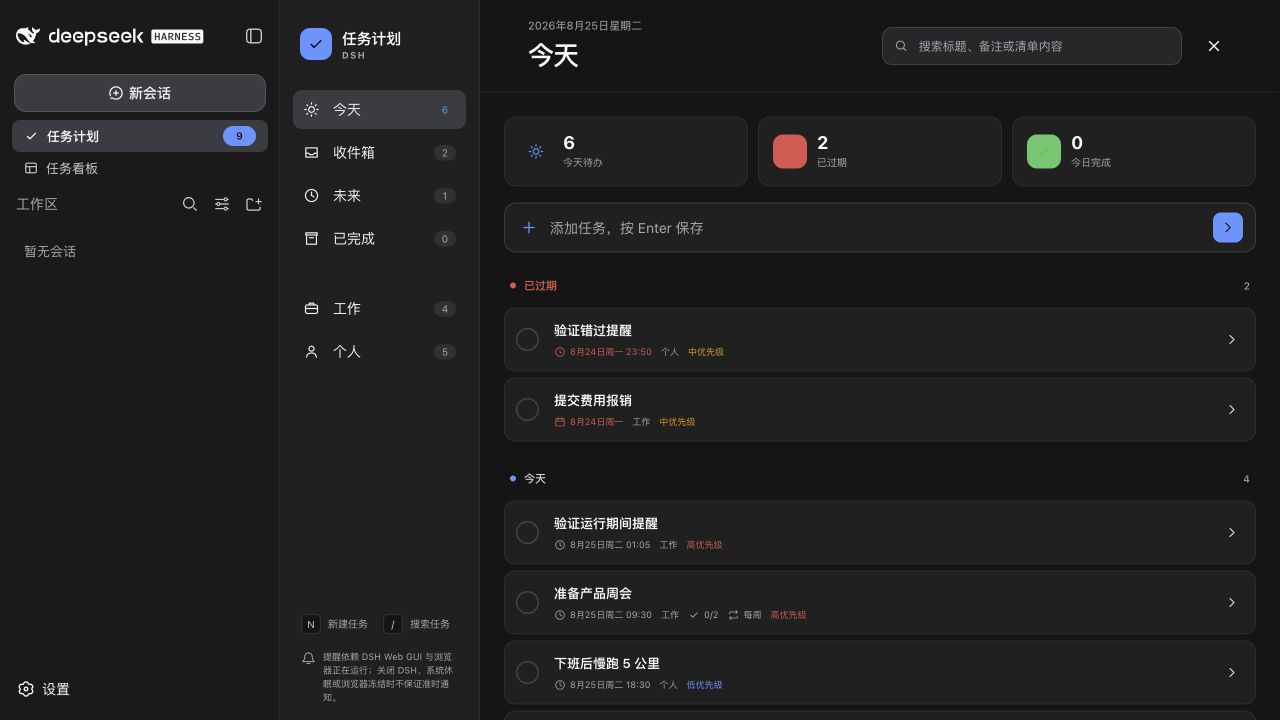
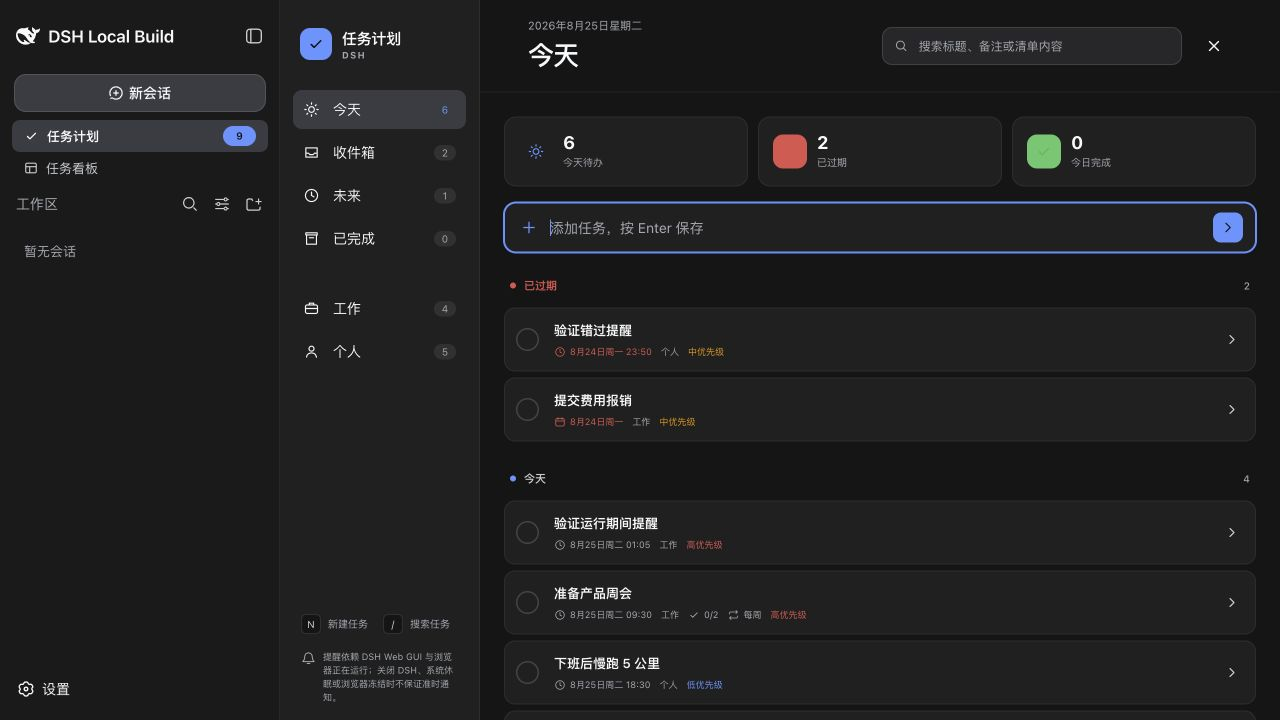
fix: refine composite input focus styles

Changed region(s): [[0.375, 0.275, 1.0, 0.3361], [0.4062, 0.3361, 0.9688, 0.3667], [0.0312, 0.0306, 0.1562, 0.0611]]

diff --git a/src/client/planner.module.css b/src/client/planner.module.css
@@ -91,9 +91,9 @@ html[data-dsh-taskplanner-active]:not([data-dsh-taskboard-active]):not([data-dsh
 .titleBlock { display: grid; gap: 4px; min-width: 0; }
 .titleBlock > span { overflow: hidden; color: var(--dsw-alias-label-tertiary); font-size: 11px; text-overflow: ellipsis; white-space: nowrap; }
 .titleBlock h1 { margin: 0; font-size: 26px; font-weight: 680; letter-spacing: -.035em; }
-.search { display: flex; align-items: center; gap: 8px; min-width: 0; height: 38px; padding: 0 11px; border: 1px solid var(--dsw-alias-border-l2); border-radius: 10px; color: var(--dsw-alias-label-tertiary); background: var(--dsw-specific-input-major); }
-.search:focus-within { border-color: var(--dsw-alias-state-business-primary); }
-.search input { min-width: 0; width: 100%; border: 0; outline: none; color: var(--dsw-alias-label-primary); background: transparent; font-size: 12px; }
+.search { display: flex; align-items: center; gap: 8px; min-width: 0; height: 38px; padding: 0 11px; border: 1px solid var(--dsw-alias-border-l2); border-radius: 10px; color: var(--dsw-alias-label-tertiary); background: var(--dsw-specific-input-major); transition: border-color 150ms ease, box-shadow 150ms ease; }
+.search:focus-within { border-color: var(--dsw-alias-state-business-primary); box-shadow: 0 0 0 1px var(--dsw-alias-state-business-primary); }
+.search input { min-width: 0; width: 100%; border: 0; outline: none; caret-color: var(--dsw-alias-state-business-primary); color: var(--dsw-alias-label-primary); background: transparent; font-size: 12px; }
 .search input::placeholder, .quickAdd input::placeholder, .field textarea::placeholder { color: var(--dsw-alias-label-tertiary); }
 .closeButton, .mobileMenu { display: grid; place-items: center; width: 36px; height: 36px; padding: 0; border: 0; border-radius: 9px; color: var(--dsw-alias-label-secondary); background: transparent; }
 .closeButton:hover, .mobileMenu:hover { color: var(--dsw-alias-label-primary); background: var(--dsw-alias-interactive-bg-hover); }
@@ -108,11 +108,13 @@ html[data-dsh-taskplanner-active]:not([data-dsh-taskboard-active]):not([data-dsh
 .summaryCard[data-tone='danger'] > span { color: var(--dsw-alias-state-error-primary); background: var(--dsw-alias-state-error-secondary); }
 .summaryCard[data-tone='success'] > span { color: var(--dsw-alias-state-success-primary); background: var(--dsw-alias-state-success-secondary); }
 
-.quickAdd { display: grid; grid-template-columns: 38px minmax(0, 1fr) 34px; align-items: center; height: 50px; padding: 0 8px 0 5px; border: 1px solid var(--dsw-alias-border-l2); border-radius: 12px; background: var(--dsw-alias-bg-layer-1); box-shadow: var(--dsw-shadow-lv1); }
+.quickAdd { display: grid; grid-template-columns: 38px minmax(0, 1fr) 34px; align-items: center; height: 50px; padding: 0 8px 0 5px; border: 1px solid var(--dsw-alias-border-l2); border-radius: 12px; background: var(--dsw-alias-bg-layer-1); box-shadow: var(--dsw-shadow-lv1); transition: border-color 150ms ease, box-shadow 150ms ease; }
+.quickAdd:has(input:focus) { border-color: var(--dsw-alias-state-business-primary); box-shadow: var(--dsw-shadow-lv1), 0 0 0 1px var(--dsw-alias-state-business-primary); }
 .quickAdd > span { display: grid; place-items: center; color: var(--dsw-alias-state-business-primary); }
-.quickAdd input { min-width: 0; border: 0; outline: none; background: transparent; }
+.quickAdd input { min-width: 0; border: 0; outline: none; caret-color: var(--dsw-alias-state-business-primary); background: transparent; }
+.panel .search input:focus-visible, .panel .quickAdd input:focus-visible { outline: none; }
 .quickAdd button { display: grid; place-items: center; width: 30px; height: 30px; padding: 0; border: 0; border-radius: 8px; color: var(--dsw-alias-label-primary-foreground); background: var(--dsw-alias-button-info-fill); }
-.quickAdd button:hover { background: var(--dsw-alias-button-info-hover); }
+.quickAdd button:not(:disabled):hover { background: var(--dsw-alias-button-info-hover); }
 .quickAdd button:disabled { opacity: .5; cursor: default; }
 .taskSurface { min-height: 260px; margin-top: 18px; }
 .taskGroup + .taskGroup { margin-top: 22px; }

diff --git a/tests/contracts.spec.ts b/tests/contracts.spec.ts
@@ -29,6 +29,8 @@ describe('plugin contracts', () => {
     expect(css).toContain('var(--dsw-')
     expect(css).toContain('container-type: inline-size')
     expect(css).toContain('@container task-planner')
+    expect(css).toContain('.panel .search input:focus-visible, .panel .quickAdd input:focus-visible { outline: none; }')
+    expect(css).toContain('.quickAdd:has(input:focus)')
   })
 
   it('documents the runtime-only reminder boundary in both locales', () => {

diff --git a/design-qa.md b/design-qa.md
@@ -60,4 +60,33 @@
 3. The first post-fix 1280 × 720 capture exposed a P2 split header and automatic inspector takeover. Container queries and list-first navigation fixed both; `detail-responsive-comparison.png` and `gui-personal-community.png` are the post-fix evidence.
 4. Completed quick-create routing, list semantics, busy states, default light, default dark, Pink Sakura, interaction flow, and console state were rechecked after the final build. No actionable P0, P1, or P2 finding remains.
 
+## Composite input focus pass
+
+- Source visual truth: `docs/assets/focus-search-reference.png` and `docs/assets/focus-quick-add-reference.png`, privacy-safe crops normalized from the two user-provided screenshots.
+- Browser-rendered implementation: `docs/assets/focus-search-qa.png`, `docs/assets/focus-quick-add-qa.png`, and the full views `docs/assets/gui-light.png`, `docs/assets/gui-dark.png`, `docs/assets/gui-community.png`, plus `docs/assets/gui-focus-community.png` from the installed DSH GUI.
+- Runtime viewports: 1920 × 796 CSS px at DPR 1 in the installed DSH GUI (280 px DSH sidebar excluded from the 1640 × 796 plugin capture), plus 1280 × 720 CSS/pixel captures in the isolated DSH theme-check profile.
+- Search comparison: the 984 × 180 px source crop was normalized to 492 × 90 px; the implementation was captured at the same 492 × 90 CSS/pixel size.
+- Quick-add comparison: the 1882 × 200 px source crop was normalized to 941 × 100 px; the implementation was captured at the same 941 × 100 CSS/pixel size.
+- State: text input focused in official default light, official default dark, and Pink Sakura community skin; the installed community-skin profile was also checked with an empty Today view. The submit button was checked separately through keyboard Tab navigation.
+
+### Findings and fixes
+
+- **P2 — Composite inputs rendered two competing focus indicators.** The panel-wide `input:focus-visible` rule added an inner rectangular outline while the search container already changed its border; quick add showed the same inner line without a matching container state. Fixed by suppressing only the two nested input outlines and moving the visible two-pixel focus treatment to their composite containers.
+- **P3 — Focus transitions and caret did not explicitly follow the active skin.** Added token-driven border/shadow transitions and a semantic caret color; no fixed color or theme override was introduced.
+- **P3 — Disabled quick-add hover could still select the hover token.** Hover styling now applies only when the submit button is enabled.
+
+### Focus-pass verification
+
+- Full-view evidence: `gui-light.png`, `gui-dark.png`, `gui-community.png`, and `gui-focus-community.png` confirm the header, summary, quick add, content, and inspector stay aligned and consume one shared semantic focus color from the active DSH theme/skin.
+- Focused evidence: the equal-size source/implementation pairs show the reported inner cyan rectangle is gone; one continuous token-driven perimeter remains around the active composite.
+- Keyboard sequence: Tab moves from the quick-add input to its submit button; the container ring clears and the button retains its own visible focus outline.
+- Fonts and copy are unchanged; spacing, radii, icons, and current-color SVG rendering remain aligned with the existing DSH component language.
+- Final browser console warnings and errors: none.
+
+### Focus-pass comparison history
+
+1. The user screenshots exposed the P2 double-focus treatment in both search and quick add.
+2. The implementation moved focus emphasis to the composite containers, rebuilt the plugin, refreshed the installed DSH GUI, and captured equal-size focused regions.
+3. The post-fix comparison found no remaining actionable P0, P1, or P2 difference; only the intentional single outer focus indicator remains.
+
 final result: passed
